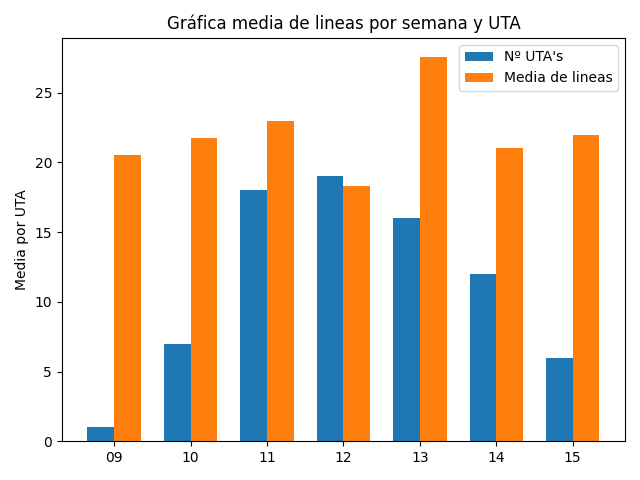
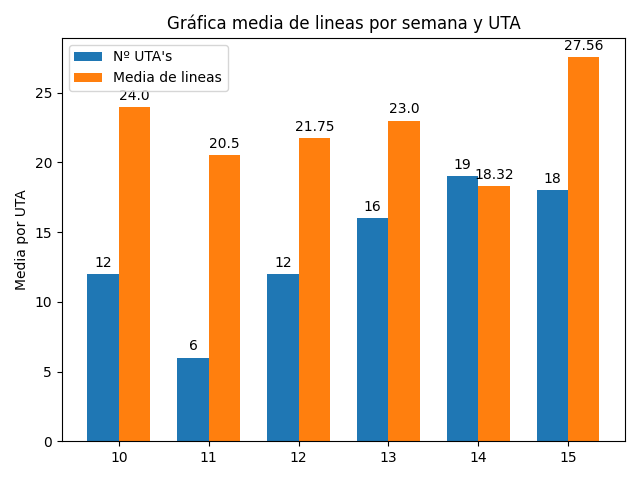
fixing graph problems and sorting ascending the data

diff --git a/graphs.py b/graphs.py
@@ -34,30 +34,27 @@ def graphsAvgCreator():
                 if row > 2:
                     dates.append(weeknumber)
                     linesAvg = int(linesAcum)/int(weeksAcum)
-                    lines.append(linesAvg)
+                    lines.append(float("{:.2f}".format(linesAvg)))
                     counterAHU.append(weeksAcum)
                     linesAvg = 0
                     linesAcum = 0
                     weeksAcum = 0
-                    initWeek = False
+                    initWeek = True
                 weekNumberAux = weeknumber
                 linesAcum = 0
                 linesRow = sheet.cell(row=row, column=6)
                 linesInt = linesRow.value
                 linesAcum = int(linesAcum) + int(linesInt)
                 weeksAcum = weeksAcum + 1
+                initWeek = False
             else:
                 linesRow = sheet.cell(row=row, column=6)
                 linesInt = linesRow.value
                 linesAcum = int(linesAcum) + int(linesInt)
                 weeksAcum = weeksAcum + 1
+                initWeek = False
     else:
         print('El archivo no existe')
-
-    
-        
-    dates.reverse()
-    lines.reverse()
 
     fig, ax = plt.subplots()
     x = np.arange(len(dates))
@@ -70,7 +67,18 @@ def graphsAvgCreator():
     ax.set_xticks(x)
     ax.set_xticklabels(dates)
     ax.legend()
+    
+    def autolabel(bars):
+        for bar in bars:
+            height = bar.get_height()
+            ax.annotate('{}'.format(height),
+                    xy=(bar.get_x() + bar.get_width() / 2, height),
+                    xytext=(0, 3),  # 3 points vertical offset
+                    textcoords="offset points",
+                    ha='center', va='bottom')
 
+    autolabel(bar1)
+    autolabel(bar2)
     fig.tight_layout()
     
     dateGraph = datetime.now()

diff --git a/main.py b/main.py
@@ -114,8 +114,6 @@ for data in jsonData['results']:
 sabanaLenght = len(sabanaArray)
 print(f'Unidades revisadas: {sabanaLenght}')
 
-sabanaArray.sort(key=getKey, reverse=True)
-
 avgLines = totalLines/sabanaLenght
 graphs.graphsAvgCreator()
 sender_email.sendEmail(mail_subject= subjectEmail, mail_body= sabanaArray, avgLines=avgLines, tagsArray=tagsArray)

diff --git a/inspections_list.py b/inspections_list.py
@@ -22,7 +22,14 @@ def todoList(tokenNotion, database, date1, date2) :
             }
 
             ]
-        }
+        },
+        "sorts": [
+            {
+                "property": "Creado",
+                "direction": "ascending"
+            }
+        ]
+        
     })
     headers = {
         'Notion-Version': '2021-05-13',
